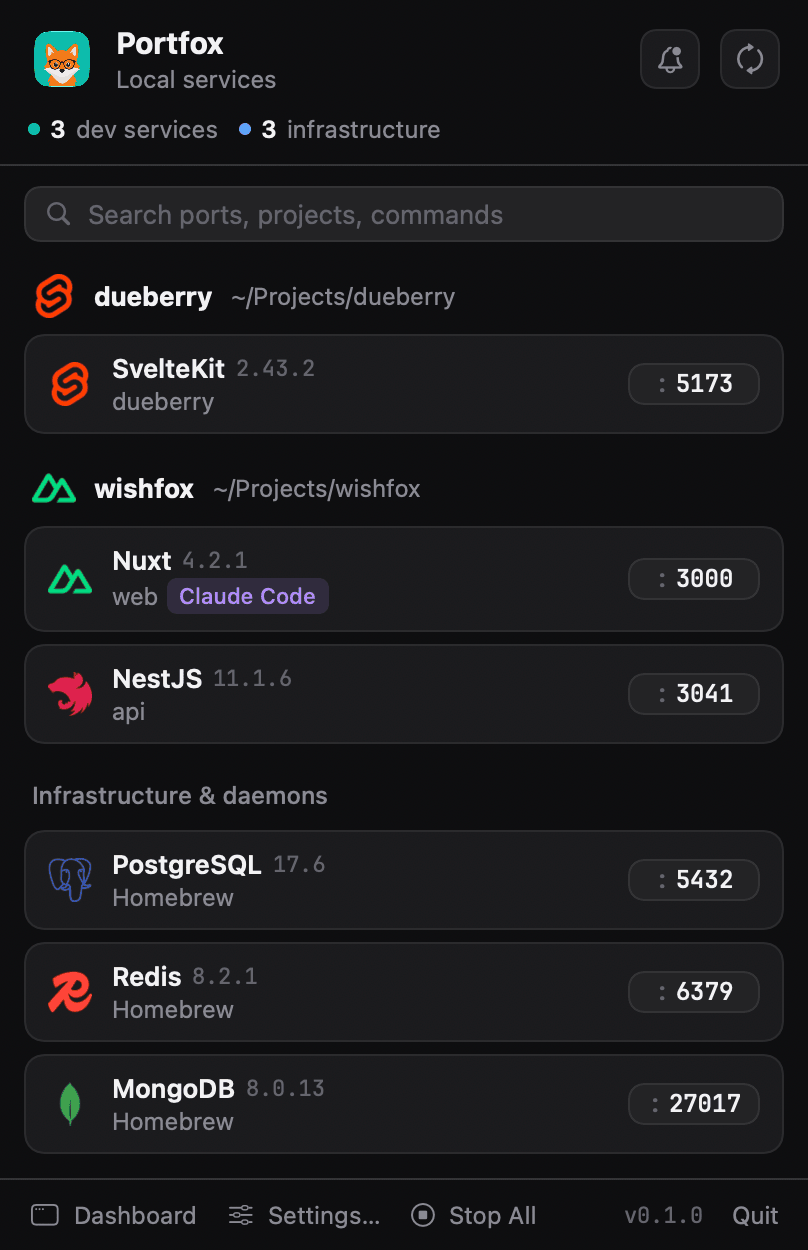
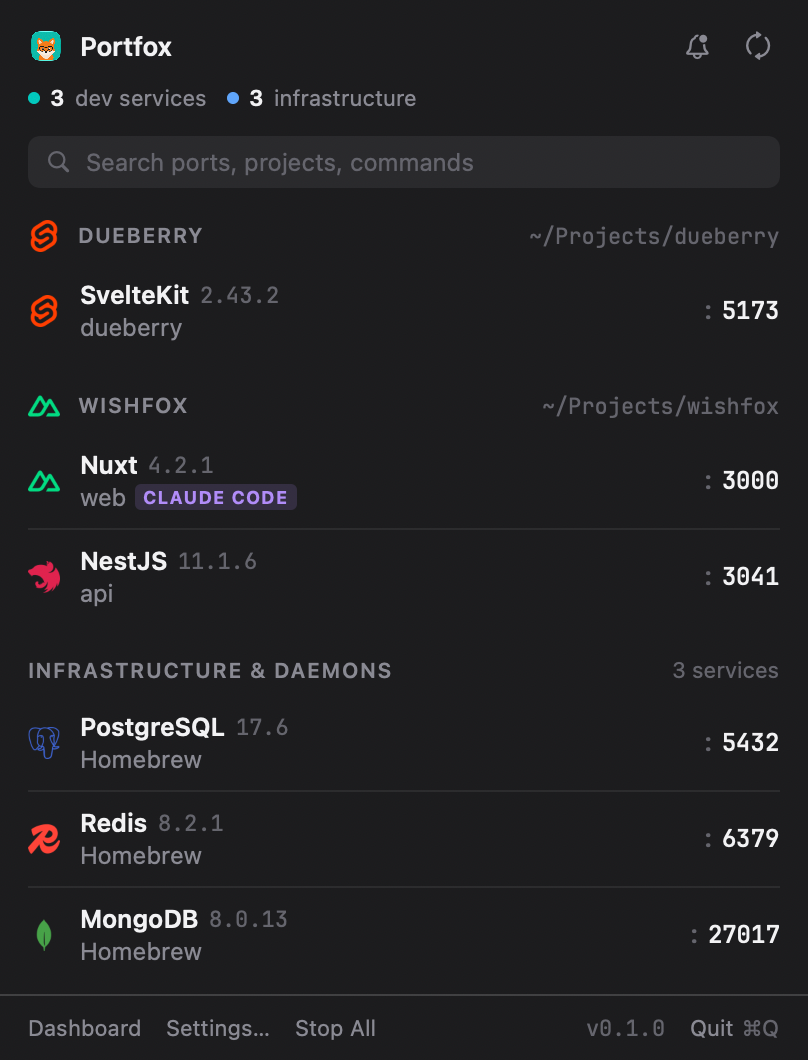
feat(app): add compact rows preference

diff --git a/App/Portfox/Views/ServiceRowView.swift b/App/Portfox/Views/ServiceRowView.swift
@@ -24,14 +24,14 @@ struct ServiceRowView: View {
         HStack(spacing: 10) {
             leadingIcon
 
-            VStack(alignment: .leading, spacing: 1) {
-                switch effectiveLayout {
-                case .serviceFirst:
-                    serviceLine
-                    detailLine { folderLine }
-                case .projectFirst:
-                    projectLine
-                    detailLine { serviceLine }
+            Group {
+                // A line that does not fit falls back to two for this row alone.
+                // `ViewThatFits` measures ideal widths, so nothing is truncated to
+                // squeeze onto one line, and no badge is ever dropped for room.
+                if state.compactRows {
+                    ViewThatFits(in: .horizontal) { oneLine; twoLines }
+                } else {
+                    twoLines
                 }
             }
             .layoutPriority(1)
@@ -41,7 +41,7 @@ struct ServiceRowView: View {
             trailingSlot
         }
         .padding(.horizontal, Theme.Metrics.listRowPaddingH)
-        .padding(.vertical, Theme.Metrics.listRowPaddingV)
+        .padding(.vertical, Theme.Metrics.rowPaddingV(compact: state.compactRows))
         .background(rowBackground)
         .contentShape(Rectangle())
         .onHover { hovering in
@@ -69,6 +69,41 @@ struct ServiceRowView: View {
             .animation(showsArrival ? .easeOut(duration: 0.2) : .easeIn(duration: 0.9), value: showsArrival)
     }
 
+    private var twoLines: some View {
+        VStack(alignment: .leading, spacing: 1) {
+            leadLine
+            detailLine { secondLine }
+        }
+    }
+
+    private var oneLine: some View {
+        HStack(spacing: 6) {
+            leadLine
+            secondLine
+            metrics
+            badges
+        }
+        // Chosen only at its ideal width, so it must never be squeezed below it.
+        // Without this the project-first line truncated "Nuxt" to "N…".
+        .fixedSize(horizontal: true, vertical: false)
+    }
+
+    @ViewBuilder
+    private var leadLine: some View {
+        switch effectiveLayout {
+        case .serviceFirst: serviceLine
+        case .projectFirst: projectLine
+        }
+    }
+
+    @ViewBuilder
+    private var secondLine: some View {
+        switch effectiveLayout {
+        case .serviceFirst: folderLine
+        case .projectFirst: serviceLine
+        }
+    }
+
     /// On hover the actions take the pills' place, so they never cover the name,
     /// project or version. Both are always laid out in one slot as wide as the
     /// wider of them, so the text beside it never re-truncates as the pointer
@@ -94,7 +129,8 @@ struct ServiceRowView: View {
     private var leadingIcon: some View {
         ServiceIconView(
             type: service.type,
-            projectIconPath: effectiveLayout == .projectFirst ? service.project?.iconPath : nil
+            projectIconPath: effectiveLayout == .projectFirst ? service.project?.iconPath : nil,
+            size: Theme.Metrics.rowIcon(compact: state.compactRows)
         )
     }
 

diff --git a/App/Portfox/Views/PinPlaceholderRow.swift b/App/Portfox/Views/PinPlaceholderRow.swift
@@ -14,18 +14,23 @@ struct PinPlaceholderRow: View {
 
     var body: some View {
         HStack(spacing: 10) {
-            ServiceIconView(type: pin.type, projectIconPath: pin.iconPath)
-                .opacity(0.5)
+            ServiceIconView(
+                type: pin.type,
+                projectIconPath: pin.iconPath,
+                size: Theme.Metrics.rowIcon(compact: state.compactRows)
+            )
+            .opacity(0.5)
 
-            VStack(alignment: .leading, spacing: 1) {
-                Text(state.displayName(of: pin))
-                    .font(.portName)
-                    .foregroundStyle(Theme.secondaryText)
-                    .lineLimit(1)
-                Text(detail)
-                    .font(.portDetail)
-                    .foregroundStyle(Theme.tertiaryText)
-                    .lineLimit(1)
+            Group {
+                if state.compactRows {
+                    ViewThatFits(in: .horizontal) {
+                        HStack(spacing: 6) { name; detailText }
+                            .fixedSize(horizontal: true, vertical: false)
+                        VStack(alignment: .leading, spacing: 1) { name; detailText }
+                    }
+                } else {
+                    VStack(alignment: .leading, spacing: 1) { name; detailText }
+                }
             }
             .layoutPriority(1)
 
@@ -52,7 +57,7 @@ struct PinPlaceholderRow: View {
             }
         }
         .padding(.horizontal, Theme.Metrics.listRowPaddingH)
-        .padding(.vertical, Theme.Metrics.listRowPaddingV)
+        .padding(.vertical, Theme.Metrics.rowPaddingV(compact: state.compactRows))
         .background(isHovering ? Theme.cardHover : .clear, in: .row)
         .contentShape(Rectangle())
         .onHover { hovering in
@@ -62,6 +67,20 @@ struct PinPlaceholderRow: View {
             Button(isWaiting ? "Stop Waiting" : "Notify When It Is Up", action: toggleWait)
             Button("Unpin") { state.unpin(pin) }
         }
+    }
+
+    private var name: some View {
+        Text(state.displayName(of: pin))
+            .font(.portName)
+            .foregroundStyle(Theme.secondaryText)
+            .lineLimit(1)
+    }
+
+    private var detailText: some View {
+        Text(detail)
+            .font(.portDetail)
+            .foregroundStyle(Theme.tertiaryText)
+            .lineLimit(1)
     }
 
     private var detail: String {

diff --git a/App/Portfox/Theme.swift b/App/Portfox/Theme.swift
@@ -114,6 +114,10 @@ enum Theme {
         /// up with the header while its hover fill still has room to show.
         static let listRowPaddingH: CGFloat = 8
         static let listRowPaddingV: CGFloat = 8
+        static let compactRowPaddingV: CGFloat = 6
+
+        static func rowPaddingV(compact: Bool) -> CGFloat { compact ? compactRowPaddingV : listRowPaddingV }
+        static func rowIcon(compact: Bool) -> CGFloat { compact ? serviceIconCompact : serviceIcon }
         /// The list's own inset from the window edge, so the fill clears it.
         static let listInset: CGFloat = 6
         /// Where a row's text starts. Headers, search and footers line up on it.
@@ -126,12 +130,15 @@ enum Theme {
         static let factLabelWidth: CGFloat = 118
         static let treeIndent: CGFloat = 18
         static let serviceIcon: CGFloat = 16
+        static let serviceIconCompact: CGFloat = 14
         /// Beside a service name on the bottom line of a project-first cell.
         static let serviceIconSmall: CGFloat = 13
         /// The least of a project path a long project name may leave, so the
         /// last folder still reads as "…/wishfox-api".
         static let pathMinWidth: CGFloat = 96
         static let statusPillWidth: CGFloat = 38
+        /// Wide enough for "100%" in `portCaption` with monospaced digits.
+        static let cpuLabelWidth: CGFloat = 28
         static let projectIcon: CGFloat = 16
 
         /// The icon buttons beside the app name, in the popover and the dashboard.

diff --git a/App/Portfox/AppState.swift b/App/Portfox/AppState.swift
@@ -66,6 +66,13 @@ final class AppState {
         didSet { defaults.set(showsMenuBarCount, forKey: Key.showsMenuBarCount) }
     }
 
+    var compactRows: Bool {
+        didSet {
+            guard compactRows != oldValue else { return }
+            defaults.set(compactRows, forKey: Key.compactRows)
+        }
+    }
+
     var sharesUsageData: Bool {
         didSet {
             defaults.set(sharesUsageData, forKey: Telemetry.defaultsKey)
@@ -135,6 +142,7 @@ final class AppState {
         static let automaticRefresh = "automaticRefresh"
         static let pollingSeconds = "pollingSeconds"
         static let showsMenuBarCount = "showsMenuBarCount"
+        static let compactRows = "compactRows"
         static let hidesDaemons = "hidesDaemons"
         static let showsUptime = "showsUptime"
         static let checksHealth = "checksHealth"
@@ -204,6 +212,7 @@ final class AppState {
         automaticRefresh = defaults.bool(forKey: Key.automaticRefresh)
         pollingSeconds = defaults.integer(forKey: Key.pollingSeconds)
         showsMenuBarCount = defaults.bool(forKey: Key.showsMenuBarCount)
+        compactRows = defaults.bool(forKey: Key.compactRows)
         hidesDaemons = defaults.bool(forKey: Key.hidesDaemons)
         showsUptime = defaults.bool(forKey: Key.showsUptime)
         checksHealth = defaults.bool(forKey: Key.checksHealth)

diff --git a/App/Portfox/Views/Dashboard/MemoryLabels.swift b/App/Portfox/Views/Dashboard/MemoryLabels.swift
@@ -51,11 +51,16 @@ struct ServiceCPULabel: View {
 
     var body: some View {
         if let percent = state.cpu(ofServiceAt: pid) {
+            // One width from 0% to 100%. The row's one-or-two-line choice is
+            // measured with this label in it, so a reading crossing a digit
+            // boundary flipped a compact row's layout on the sampling tick.
             Text(CPUFormat.short(percent))
                 .font(.portCaption)
+                .monospacedDigit()
                 .foregroundStyle(percent >= 100 ? Theme.danger : Theme.tertiaryText)
                 .lineLimit(1)
                 .fixedSize(horizontal: true, vertical: false)
+                .frame(minWidth: Theme.Metrics.cpuLabelWidth, alignment: .leading)
         }
     }
 }

diff --git a/App/Portfox/Views/PreferencesSheet.swift b/App/Portfox/Views/PreferencesSheet.swift
@@ -220,6 +220,13 @@ struct PreferencesSheet: View {
             }
             PreferenceDivider()
             PreferenceRow(
+                title: "Compact rows",
+                subtitle: "One line per service, so more fit before the list scrolls"
+            ) {
+                PreferenceCheckbox(isOn: $state.compactRows)
+            }
+            PreferenceDivider()
+            PreferenceRow(
                 title: "Show uptime",
                 subtitle: "How long each service has been running, beside its folder"
             ) {

diff --git a/.claude/CLAUDE.md b/.claude/CLAUDE.md
@@ -302,6 +302,12 @@ the arrival wash are a `rowRadius` fill inside the row, so none of them can chan
 its height. `card` is for contained elements only: fact tables, the process tree,
 preference groups. Group and section titles go through `groupLabelStyle()`.
 
+**Compact rows fall back per row, never by dropping content.** With "Compact rows"
+on, a row tries one line inside `ViewThatFits` and takes two when that line does
+not fit at its ideal width. The one-line variant is `fixedSize` horizontally,
+because squeezed it truncated a service name rather than falling back. A badge is
+never dropped for room: an origin or container badge is a warning.
+
 **Text on an accent fill uses `onAccent`, never `background`.** Standing in
 `background` for it worked only while there was one appearance. `accent` is the
 brand fill; `accentText` is the accent as a glyph, darkened in light because the
